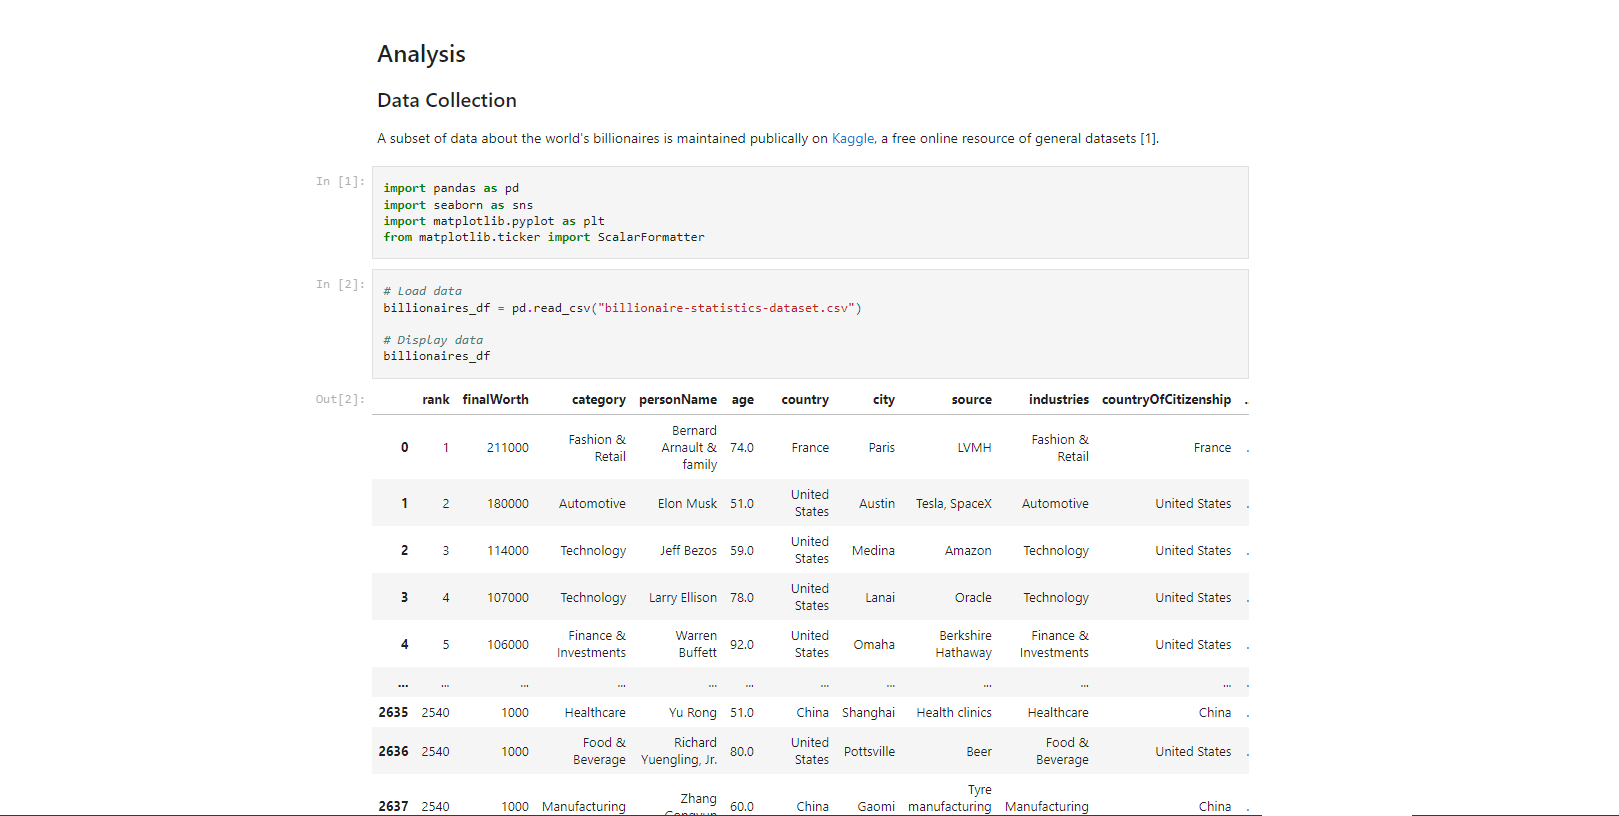
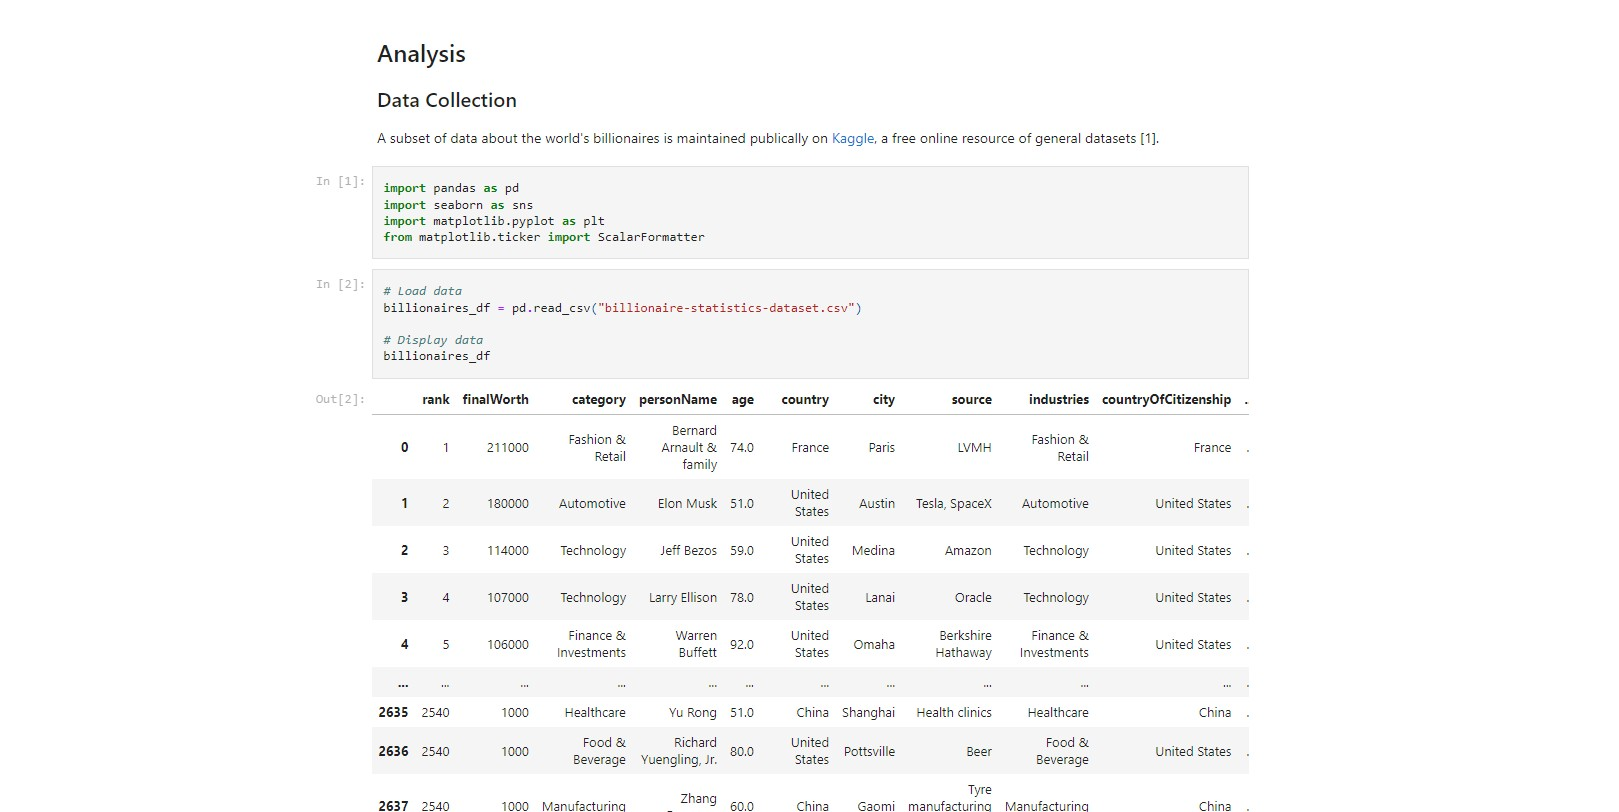
docs: update README

diff --git a/README.md b/README.md
@@ -1,10 +1,9 @@
 # Tech Industry Billionaires Data Analysis
 
 ## Overview
-This analysis explores tech industry billionaire data to extract sector insights, drive data-driven business strategies, and forecast industry trends. Through data visualization and statistical analysis, the study uncovers patterns, correlations, and outliers in distributions. The findings highlight diverse pathways to success within the tech industry and guide those pursuing careers in tech.
+This analysis explores tech industry billionaire data to extract sector insights and forecast industry trends. It uses statistical methods and data visualization to identify patterns, correlations, and outliers, highlighting key opportunities in the technology sector and providing strategic guidance for job seekers.
 
 ### Preview
-![Analysis section](images/analysis-section.jpg)
 ![Age Distribution by Industry Graph](images/age-distribution-by-industry-graph.png)
 ![Age-Net-Worth Relationship Graph](images/age-net-worth-relationship-graph.png)
 ![Age Distribution Graph](images/age-distribution-graph.png)
@@ -13,13 +12,13 @@ This analysis explores tech industry billionaire data to extract sector insights
 To explore the analysis, open the [Jupyter Notebook file](https://github.com/reshawnlofters/tech-industry-billionaires-analysis/blob/main/tech-industry-billionaires-analysis.ipynb) (`tech-industry-billionaires-analysis.ipynb`) in the repository.
 
 ## Technologies Used
-- Python, Pandas, NumPy, Seaborn, Matplotlib, Jupyter Notebooks
+Python, Pandas, NumPy, Seaborn, Matplotlib, Jupyter Notebooks
 
 ## Author
-This analysis is developed and maintained by Reshawn Lofters. For inquiries, suggestions, or feedback, please email [reshawnalofters@gmail.com](mailto:reshawnalofters@gmail.com).
+Developed and maintained by Reshawn Lofters. For inquiries or feedback: [reshawnalofters@gmail.com](mailto:reshawnalofters@gmail.com).
 
 ## Resources
 The dataset used for this analysis can be found [here](https://www.kaggle.com/datasets/nelgiriyewithana/billionaires-statistics-dataset).
 
 ## License
-This project is licensed under a Custom License. See the [LICENSE](./LICENSE) file for details.
+This project is licensed under a custom license. See the [LICENSE](./LICENSE) file for details.
